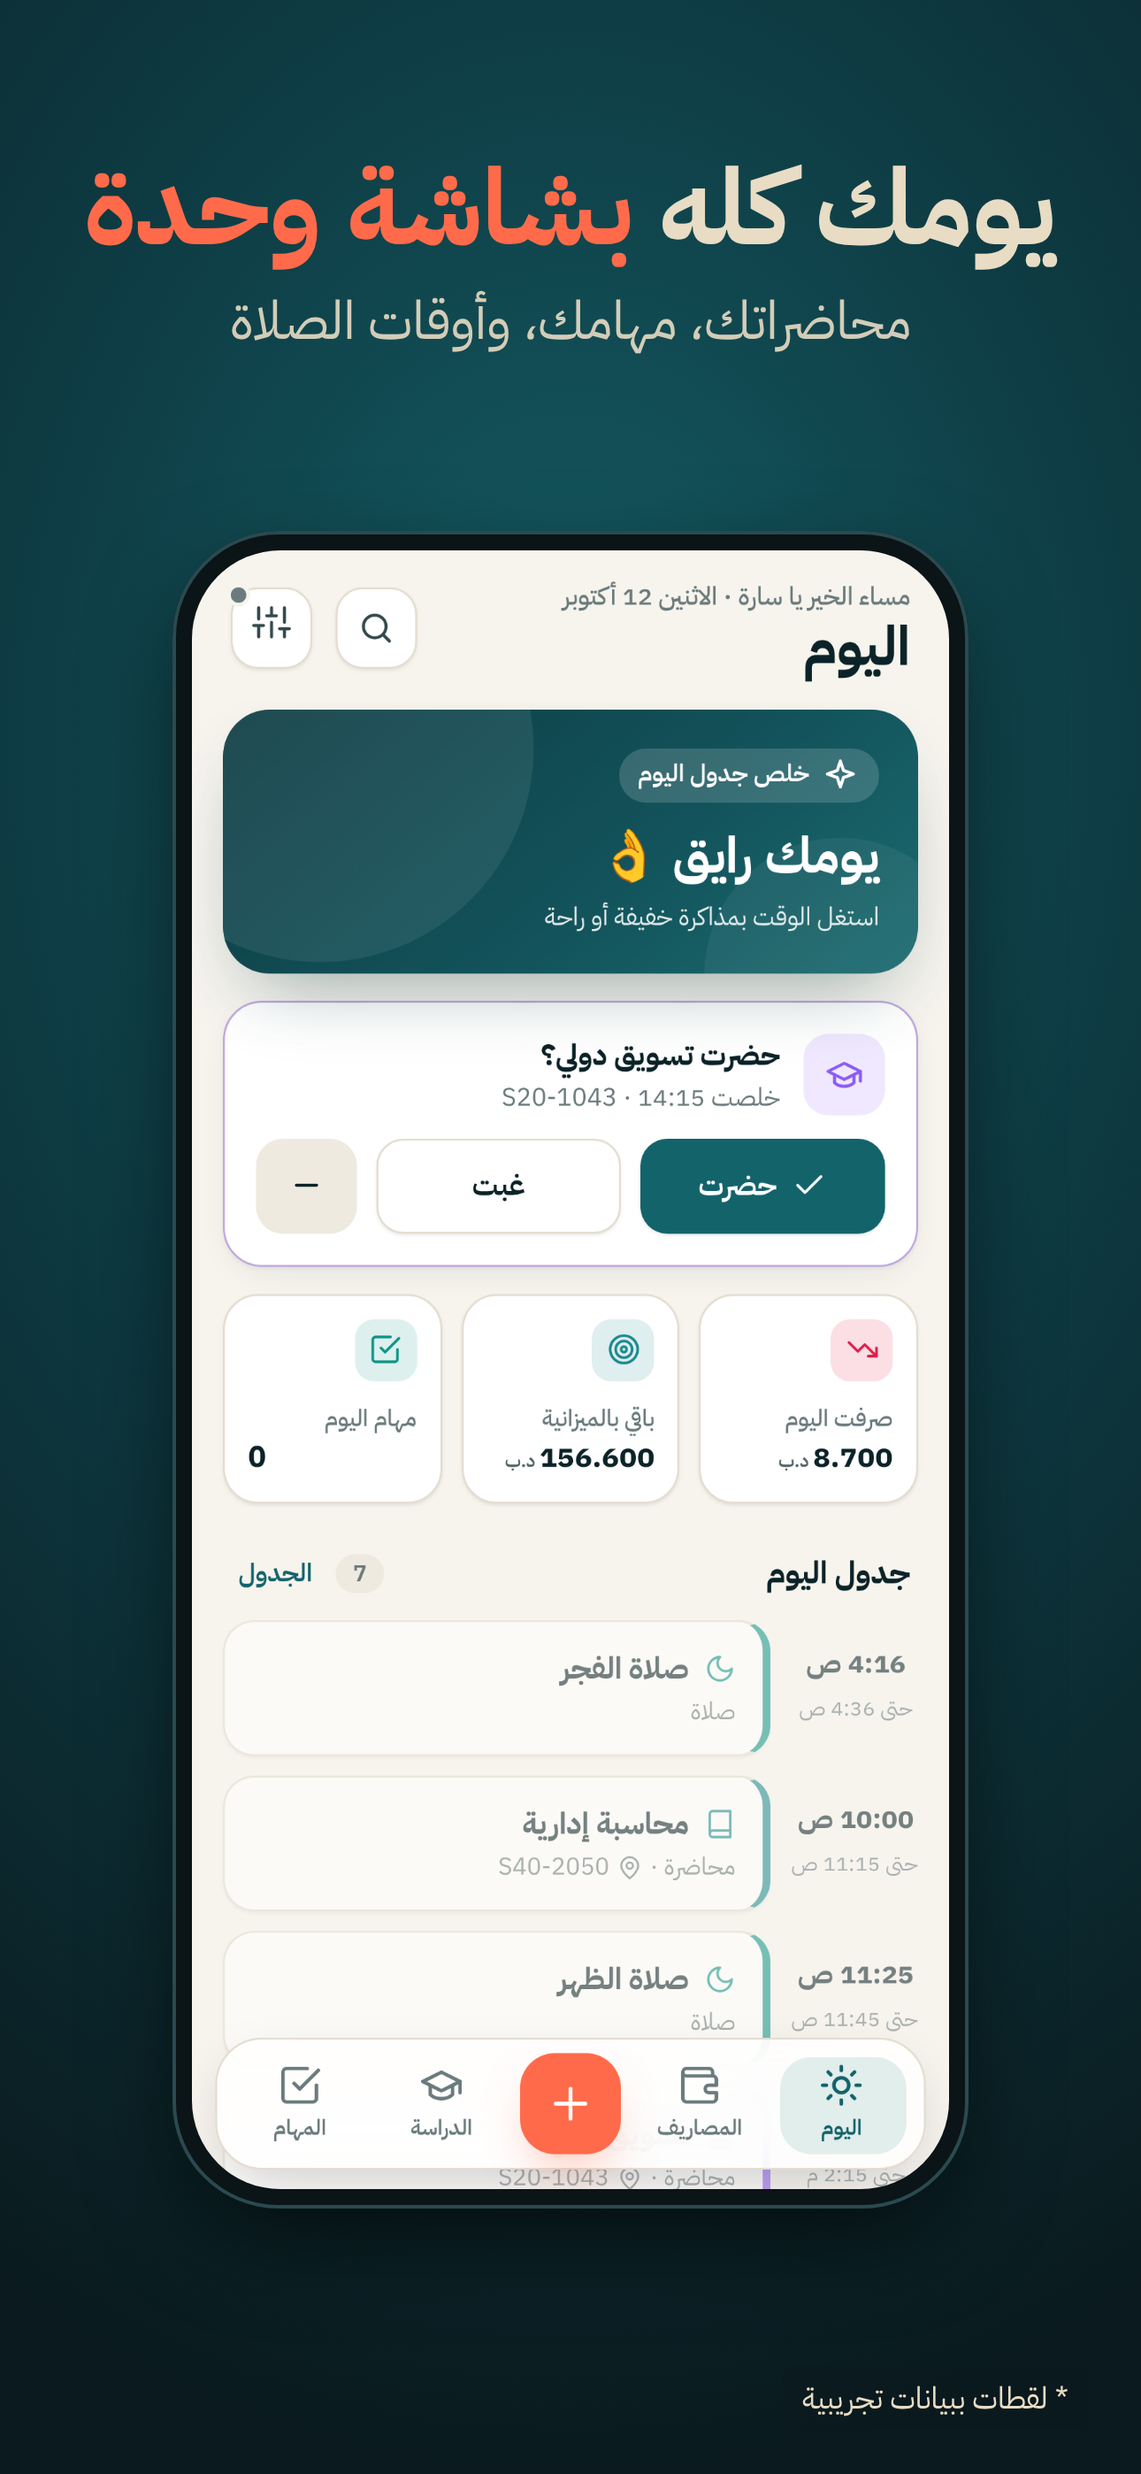
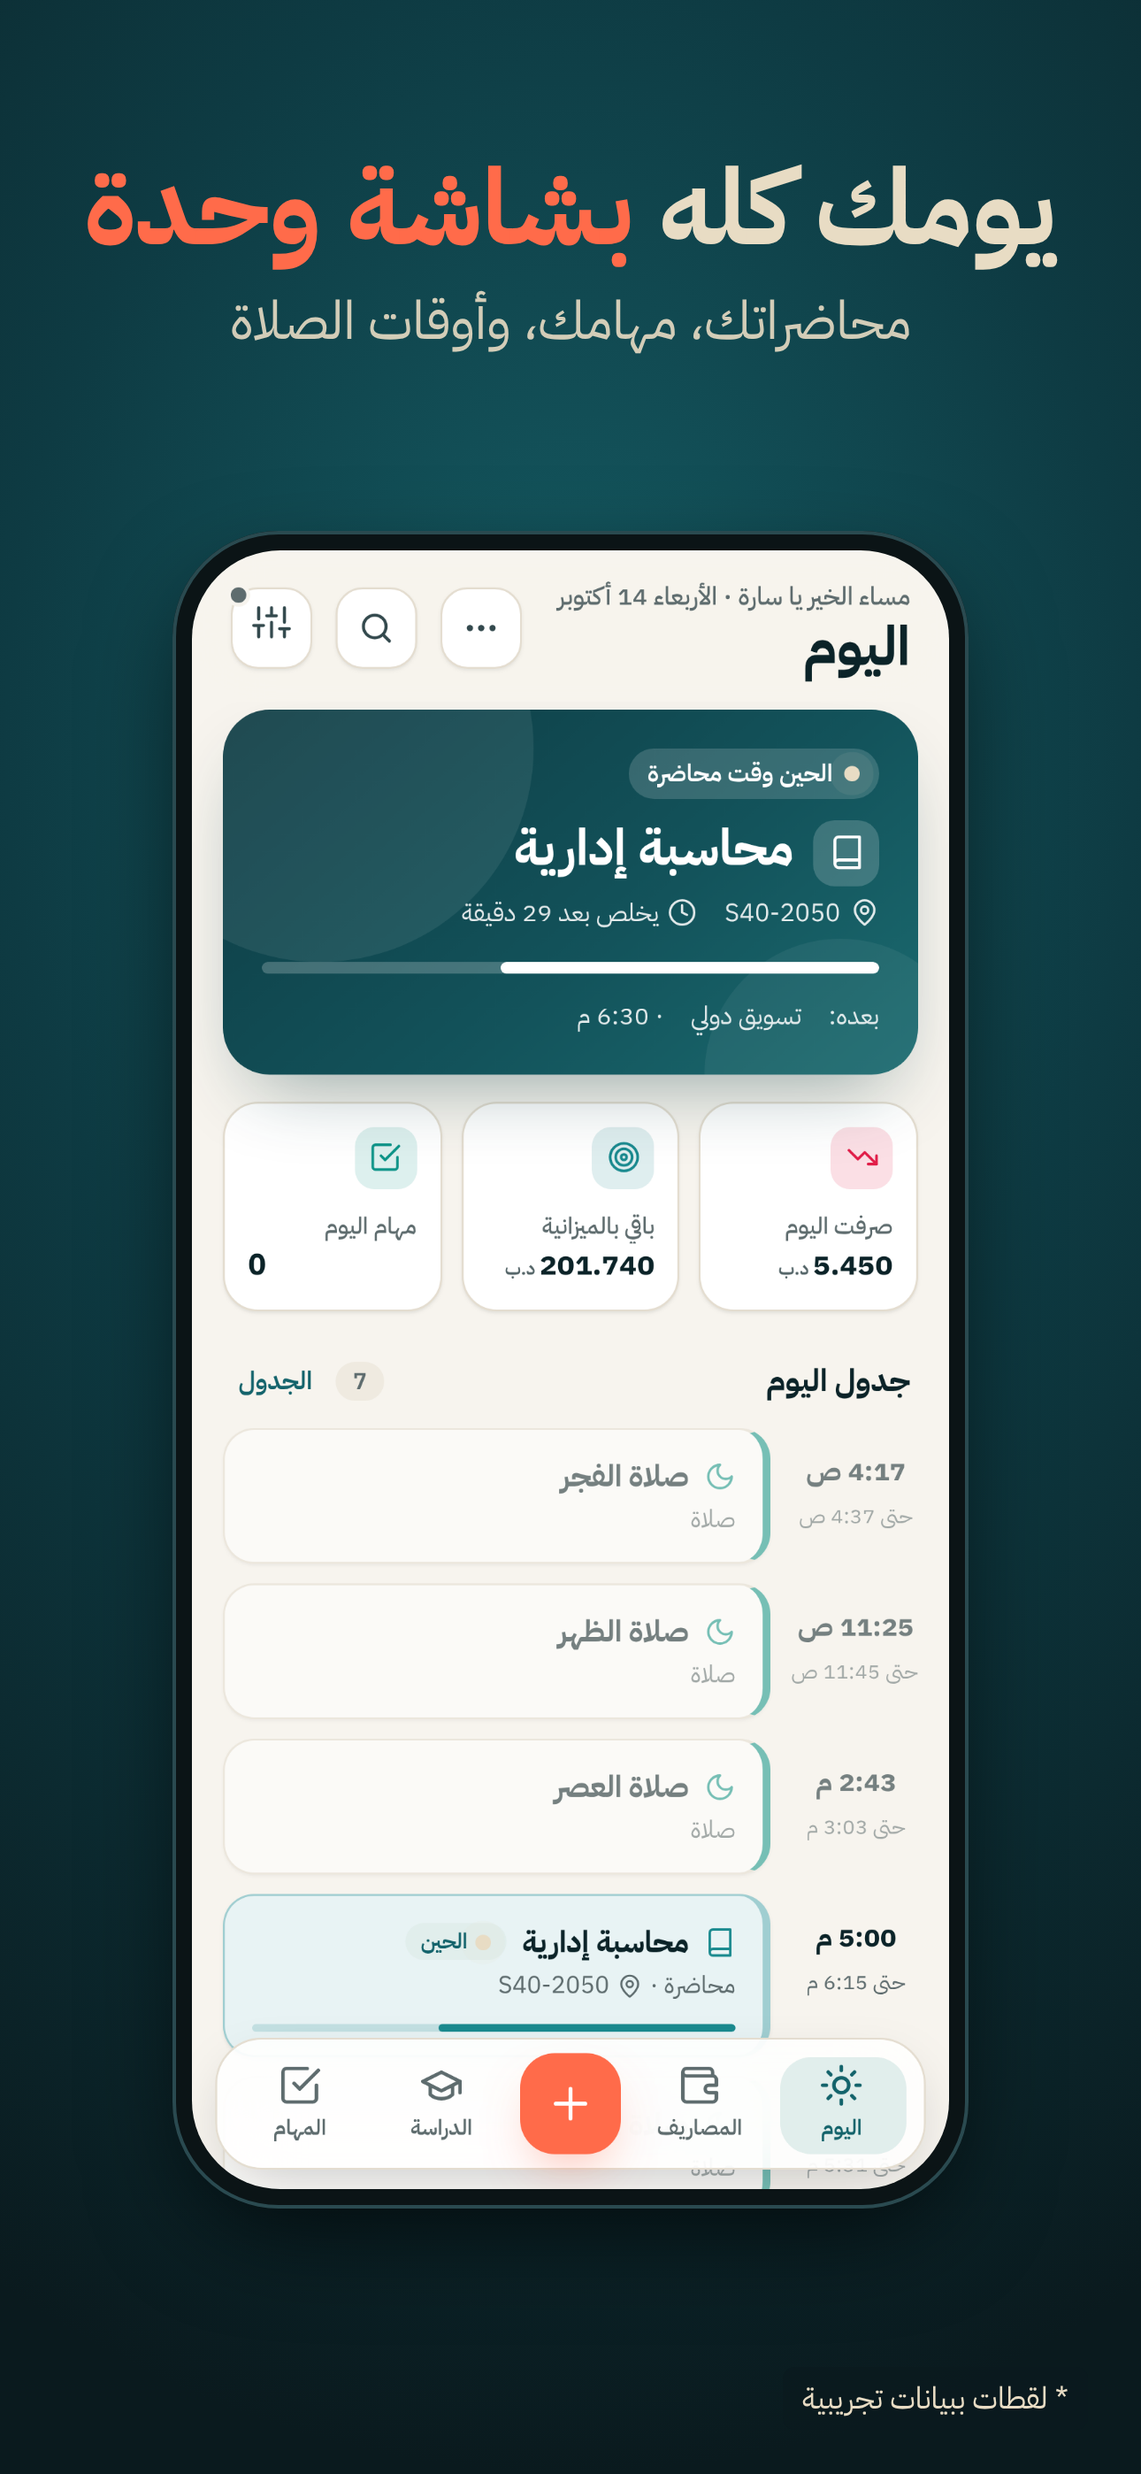
Hayati store assets: 7 screenshots for DW-012..016 with natural demo data, updated listing text
Claude-Session: https://claude.ai/code/session_01AXqw1919FcrLaaxuJmUf2G

diff --git a/hayati-app/store/build.js b/hayati-app/store/build.js
@@ -10,49 +10,45 @@ const ICON = fs.readFileSync(path.join(D, '../brand/icon-square.svg'), 'utf8');
 const GLYPH = ICON.replace(/<\?xml[^>]*>|<svg[^>]*>|<\/svg>|<rect[^>]*\/>|<!--[^>]*-->/g, '');
 fs.mkdirSync(OUT, { recursive: true }); fs.mkdirSync(RAW, { recursive: true });
 
-// نفس البيانات التجريبية حق الإعلان
-function seed() {
-  const k = (off) => { const d = new Date(); d.setDate(d.getDate() - off); return d.getFullYear() + '-' + String(d.getMonth() + 1).padStart(2, '0') + '-' + String(d.getDate()).padStart(2, '0'); };
-  const at = (d, h) => { const n = new Date(); return new Date(n.getFullYear(), n.getMonth(), Math.max(1, n.getDate() - d), h || 12, 20).toISOString(); };
-  const S = App.S;
-  S.setSettings({ budget: 250, sleep_goal: 8, name: 'سارة', roles: ['student', 'athlete'], onboarded: true, prayer_method: 'gulf' });
-  const tx = [['COSTA SEEF', 3.2, 1, 'قهوة'], ['Costa Coffee', 2.9, 3, 'قهوة'], ['كوستا', 3.5, 4, 'قهوة'], ['COSTA SEEF', 3.2, 6, 'قهوة'], ['Costa Coffee', 4.1, 7, 'قهوة'],
-    ['Talabat', 6.8, 2, 'أكل ومطاعم'], ['TALABAT BH', 9.1, 5, 'أكل ومطاعم'], ['LULU HYPERMARKET', 24, 6, 'بقالة وتسوق'], ['Bapco Juffair', 8, 3, 'مواصلات وبنزين'],
-    ['Shake Shack', 7.9, 4, 'أكل ومطاعم'], ['Batelco', 12, 1, 'فواتير واتصالات'], ['Jawad', 5.3, 0, 'بقالة وتسوق'], ['Careem', 3.4, 0, 'مواصلات وبنزين']];
-  tx.forEach(([m, a, d, c], i) => S.upsert('transactions', { id: 'tx' + i, kind: 'expense', amount: a, merchant: m, category: c, occurred_at: at(d, 9 + (i % 10)) }));
-  S.upsert('transactions', { id: 'inc', kind: 'income', amount: 200, merchant: 'مكافأة الجامعة', category: 'مكافأة', occurred_at: at(2, 10) });
-  const today = new Date().getDay();
-  S.upsert('courses', { id: 'c1', name: 'محاسبة إدارية', type: 'lecture', days: [today, (today + 2) % 7], start_time: '10:00', end_time: '11:15', room: 'S40-2050', color: '#1A8A8F' });
-  S.upsert('courses', { id: 'c2', name: 'تسويق دولي', type: 'lecture', days: [today, (today + 2) % 7], start_time: '13:00', end_time: '14:15', room: 'S20-1043', color: '#8b5cf6' });
-  S.upsert('courses', { id: 'c3', name: 'تمرين الفريق', type: 'gym', days: [(today + 1) % 7, (today + 3) % 7], start_time: '18:00', end_time: '20:00', room: 'ملعب النادي', color: '#10b981' });
-  S.upsert('tasks', { id: 'tk1', title: 'تقرير التسويق الدولي', kind: 'homework', due_at: new Date(Date.now() + 2 * 864e5).toISOString() });
-  S.upsert('tasks', { id: 'tk2', title: 'اختبار المحاسبة', kind: 'exam', due_at: new Date(Date.now() + 6 * 864e5).toISOString() });
-  for (let i = 1; i <= 7; i++) S.upsert('daily', { id: 'n' + i, date: k(i), watch: true, sleep: [7.6, 7.9, 8.1, 7.4, 7.8, 8.2, 7.7][i - 1], hrv: [61, 58, 63, 57, 60, 64, 59][i - 1], rhr: 52 });
-  try { localStorage.setItem('hayati-morning', JSON.stringify({ [new Date().toDateString()]: 1 })); } catch (e) { /* تجاهل */ }
-}
+// نفس البيانات التجريبية «الطبيعية» حق الإعلان (videos/hayati-ad/seed.js)
+const seed = require('../../videos/hayati-ad/seed.js');
 
 const SHOTS = [
   ['01_today', 'يومك كله', 'بشاشة وحدة', 'محاضراتك، مهامك، وأوقات الصلاة'],
-  ['02_money', 'مصاريفك', 'وميزانيتك', 'وتقدير لوين بتوصل آخر الشهر'],
-  ['03_search', 'كم صرفت', 'على كوستا؟', 'بحث يجمع لك كل محل'],
-  ['04_schedule', 'جدولك', 'الأسبوعي', 'محاضرة، تمرين، أو دوام'],
-  ['05_welcome', 'لك أنت', 'بالذات', 'طالب، موظف، رياضي… تختار وش يطلع لك'],
+  ['02_money', 'من راتب', 'لراتب', 'تختار يوم راتبك، وتقدير لوين بتوصل'],
+  ['03_summary', 'راتبك', 'وين راح؟', 'أكثر 3 أشياء صرفت عليها'],
+  ['04_search', 'كم صرفت', 'على كوستا؟', 'بحث يجمع لك كل محل'],
+  ['05_zakat', 'الزكاة', 'والخُمس', 'حاسبة تقدير · سني / شيعي'],
+  ['06_ibada', 'عبادتي', '', 'الهجري، الصلاة الجاية، والمناسبات'],
+  ['07_tools', 'كل شي', 'بمكان واحد', 'الفلوس · يومك · الدراسة والصحة · العبادة'],
 ];
 
 async function raw(b) {
   const ctx = await b.newContext({ viewport: { width: 390, height: 844 }, deviceScaleFactor: 3, locale: 'ar-BH', timezoneId: 'Asia/Bahrain', colorScheme: 'light' });
+  // نسخة المتجر أندرويد أصلية: Capacitor مزيّف عشان تطلع أزرارها (التنبيهات)
+  await ctx.addInitScript(() => {
+    window.Capacitor = { isNativePlatform: () => true, Plugins: { LocalNotifications: { checkPermissions: async () => ({ display: 'granted' }), getPending: async () => ({ notifications: [] }), cancel: async () => {}, schedule: async () => {} }, Haptics: { impact: async () => {} } } };
+    localStorage.setItem('hayati-loop-ask', 'yes');
+  });
   const p = await ctx.newPage();
   const shot = async (n) => { await p.waitForTimeout(700); await p.screenshot({ path: path.join(RAW, n + '.png') }); };
-  // 5) مستخدم جديد أول ما يفتح
   await p.goto(APP); await p.waitForFunction(() => window.App && App.st);
   await p.addStyleTag({ content: '.morning{display:none!important}' });
-  await shot('05_welcome');
   await p.evaluate(seed);
-  await p.evaluate(() => { App.go('today'); scrollTo(0, 0); }); await shot('01_today');
+  await p.evaluate(() => { App.ui.month = App.monthKey(new Date()); App.S.setSettings({ prayer_on: true }); App.go('today'); scrollTo(0, 0); }); await shot('01_today');
   await p.evaluate(() => { App.ui.moneySeg = 'tx'; App.go('money'); scrollTo(0, 0); }); await shot('02_money');
-  await p.click('#findBtn'); await p.fill('#findQ', 'كوستا'); await p.waitForTimeout(400); await p.evaluate(() => document.activeElement.blur()); await shot('03_search');
-  await p.evaluate(() => App.closeSheet());
-  await p.evaluate(() => { App.ui.studySeg = 'schedule'; App.go('schedule'); scrollTo(0, 0); }); await shot('04_schedule');
+  await p.click('#findBtn'); await p.fill('#findQ', 'كوستا'); await p.waitForTimeout(400); await p.evaluate(() => document.activeElement.blur()); await shot('04_search');
+  await p.evaluate(() => App.closeSheet()); await p.waitForTimeout(300);
+  await p.evaluate(() => { const d = new Date().getDate(); App.S.setSettings({ payday: d === 1 ? 1 : Math.min(28, d) }); App.ui.month = App.monthKey(new Date()); App.go('today'); });
+  await p.click('[data-action="payday-summary"]'); await shot('03_summary');
+  await p.click('#sheetCancel');
+  await p.evaluate(() => { App.S.setSettings({ payday: 25, madhhab: 'sunni' }); App.ui.month = App.monthKey(new Date()); App.go('money'); });
+  await p.click('[data-action="zakat"]');
+  await p.fill('[name=zk_cash]', '4860.250'); await p.fill('[name=zk_gold]', '38.900'); await p.dispatchEvent('[name=zk_gold]', 'input'); await shot('05_zakat');
+  await p.click('#sheetCancel'); await p.waitForTimeout(300);
+  await p.evaluate(() => App.go('today')); await p.click('[data-action="ibada"]'); await shot('06_ibada');
+  await p.click('#sheetCancel'); await p.waitForTimeout(300);
+  await p.click('#toolsBtn'); await shot('07_tools');
   await ctx.close();
 }
 
@@ -67,7 +63,7 @@ b{color:#FF6B4A}</style></head><body><div class="bg"></div>`;
 function storeShot([n, a, c, sub], w, h) {
   const tall = h / w > 2, s = w / 1290, phoneW = Math.round((tall ? 900 : 760) * s), top = Math.round((tall ? 600 : 600) * s), hs = Math.round(120 * s);
   return head(w, h) + `<div style="position:absolute;left:0;right:0;top:${Math.round(170 * s)}px;text-align:center;line-height:1.1">
-<div style="font-size:${hs}px;white-space:nowrap">${a} <b>${c}</b></div>
+<div style="font-size:${hs}px;white-space:nowrap">${a}${c ? ' <b>' + c + '</b>' : ''}</div>
 <div style="font-size:${Math.round(60 * s)}px;font-weight:400;margin-top:${Math.round(28 * s)}px;opacity:.9">${sub}</div></div>
 <div style="position:absolute;left:50%;top:${top}px;width:${phoneW}px;margin-left:${-phoneW / 2}px;padding:${Math.round(22 * s)}px;border-radius:${Math.round(120 * s)}px;background:#0b1416;box-shadow:0 40px 120px -30px rgba(0,0,0,.8),inset 0 0 0 ${Math.max(2, Math.round(4 * s))}px #2a4a50">
 <img src="file://${RAW}/${n}.png" style="width:100%;display:block;border-radius:${Math.round(100 * s)}px"></div>
@@ -79,7 +75,7 @@ const iconPage = (size, pad, bg = true) => `<!doctype html><html><body style="ma
 
 const feature = head(1024, 500) + `<svg viewBox="0 0 512 512" style="position:absolute;right:70px;top:110px;width:280px;height:280px">${GLYPH}</svg>
 <div style="position:absolute;right:390px;top:120px;line-height:1.15"><div style="font-size:96px">«<b>حياتي</b>»</div>
-<div style="font-size:40px;font-weight:400;margin-top:14px">مصاريفك، دراستك، وصلاتك بمكان واحد</div>
+<div style="font-size:40px;font-weight:400;margin-top:14px">يومك كله بتطبيق واحد</div>
 <div style="font-size:30px;font-weight:400;margin-top:22px;opacity:.75">تطبيق بحريني · نسخة تجريبية</div></div></body></html>`;
 
 (async () => {

diff --git a/hayati-app/docs/STORE.md b/hayati-app/docs/STORE.md
@@ -51,7 +51,7 @@
    |---|---|
    | App icon 512×512 | `store/out/icon-play-512.png` |
    | Feature graphic 1024×500 | `store/out/play-feature-1024x500.png` |
-   | Phone screenshots (2–8) | `store/out/android-01…05_*.png` |
+   | Phone screenshots (2–8) | `store/out/android-01…07_*.png` (7 لقطات) |
 4. **App content**: الإجابات تحت (Privacy policy، Data safety، Content rating…).
 5. **Testing ← Closed testing** ← ارفع `app-release.aab` ← أضف المختبرين بالإيميل (Google Group أو قائمة).
 6. **App content ← Exact alarms** (لو سألك): التطبيق يستخدم `SCHEDULE_EXACT_ALARM` (يوافق عليه المستخدم) لتذكيرات المحاضرات والاختبارات، **مو** `USE_EXACT_ALARM`. على أندرويد 14 لو المستخدم ما وافق، التذكير ممكن يتأخر دقايق.
@@ -82,7 +82,7 @@ Google تطلب 12 شخص يجربونه 14 يوم قبل ما ينزل للكل
   - **اهتزاز** عند الحفظ والحذف.
 - يحتاج Xcode = ماك. أو ماك سحابي.
 - أول شي **TestFlight** (اختبار، لين 10,000 مختبر)، بعدين المتجر.
-- الصور جاهزة: `store/out/ios-01…05_*.png` (1290×2796) و`icon-ios-1024.png`.
+- الصور جاهزة: `store/out/ios-01…07_*.png` (1290×2796) و`icon-ios-1024.png`.
 
 ---
 
@@ -92,7 +92,7 @@ Google تطلب 12 شخص يجربونه 14 يوم قبل ما ينزل للكل
 
 **الوصف القصير (80 حرف):**
 ```
-مصاريفك ودراستك وصلاتك ومهامك بمكان واحد. تطبيق بحريني، نسخة تجريبية.
+يومك كله بتطبيق واحد: مصاريفك، دراستك، صلاتك ومهامك. تطبيق بحريني تجريبي.
 ```
 
 **الوصف الكامل:**
@@ -101,25 +101,34 @@ Google تطلب 12 شخص يجربونه 14 يوم قبل ما ينزل للكل
 
 💳 المصاريف
 • سجّل مصروفك بثواني، أو الصق رسالة البنك (أو شاركها لحياتي على أندرويد) وراجعها قبل ما تنضاف.
-• رقم بطاقتك ينخفى قبل الحفظ، ويبقى آخر رقمين بس.
+• تختار يوم راتبك، والشهر يمشي من راتب لراتب.
+• «راتبك وين راح؟»: أكثر 3 أشياء صرفت عليها بالشهر اللي خلص.
+• تقدير لوين بتوصل ميزانيتك قبل الراتب الجاي.
 • بحث يجمع لك كم صرفت على أي محل.
-• تقدير لوين بتوصل ميزانيتك آخر الشهر.
-• الاشتراكات، الأهداف، والديون.
+• الاشتراكات، أهداف الادخار، ولي وعلي.
+• رقم بطاقتك ينخفى قبل الحفظ، ويبقى آخر رقمين بس.
+
+🧮 الزكاة والخُمس
+• حاسبة تقدير للزكاة والخُمس، وتختار سني أو شيعي. تقدير يساعدك تحسب، مو فتوى.
 
 🎓 الدراسة والجدول
 • جدولك الأسبوعي: محاضرة، تمرين، أو دوام.
 • المذاكرة والمعدل الفصلي والتراكمي.
 • المهام والاختبارات بمواعيدها.
 
-🕌 أوقات الصلاة
-• بالطريقة اللي تختارها، وتنضاف لتقويم جوالك.
+🕌 عبادتي
+• أوقات الصلاة بالطريقة اللي تختارها، والصلاة الجاية.
+• التاريخ الهجري، والمناسبات الجاية (رمضان، العيد، القرقاعون، الناصفة…).
+• عداد ورد القرآن والختمة، ومسبحة.
+• التطبيق يرتب وقتك بس، وتقرا من مصحفك أو تطبيقك.
 
-💪 للرياضيين
-• تقدير جاهزيتك من نومك ونبضك (تقدير، مو تشخيص طبي).
-• قسم خاص لحراس المرمى.
+✨ كل شي بحياتي
+• زر واحد فيه كل الأدوات، وترتّب شاشة «اليوم» على كيفك.
+• تذكيرات المحاضرات والصلاة و«سكّر يومك» حتى والتطبيق مسكّر (أندرويد).
 
 🔒 خصوصيتك
 • بياناتك على جهازك. ما فيه إعلانات ولا تتبّع، وما نبيع بيانات أحد.
+• يشتغل بدون نت.
 • تقدر تحذف كل بياناتك من الإعدادات.
 
 🛠 التطبيق قيد التطوير (نسخة تجريبية). اقتراحاتكم تحدد وش ننبني بعد: @hayati.bh
